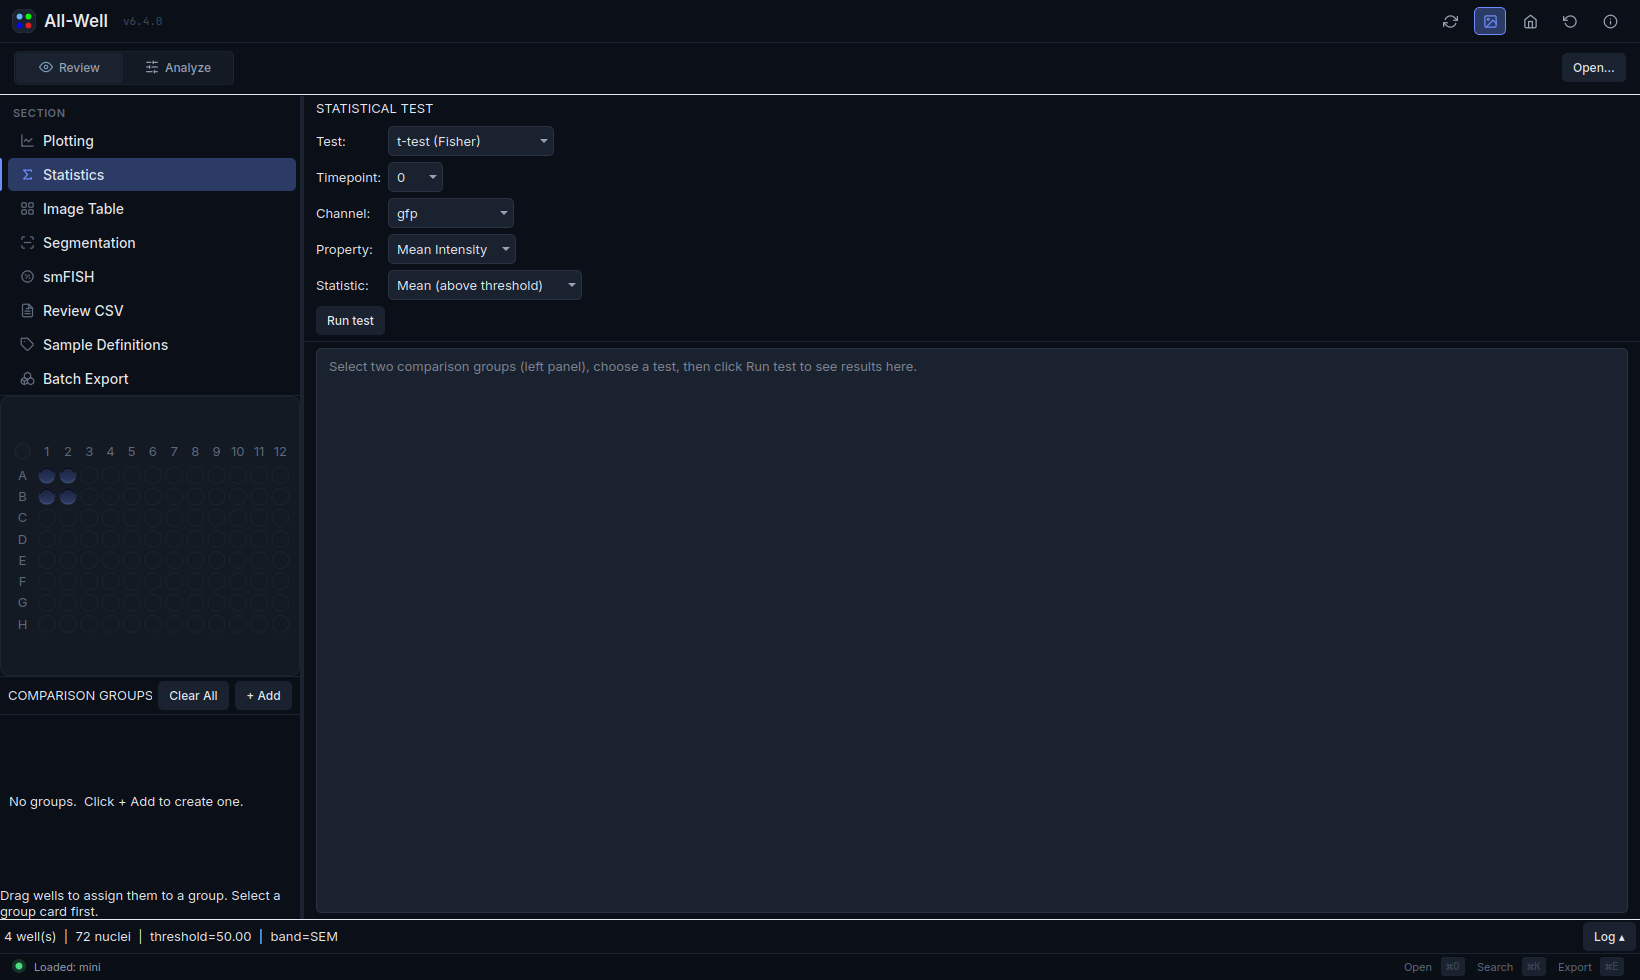
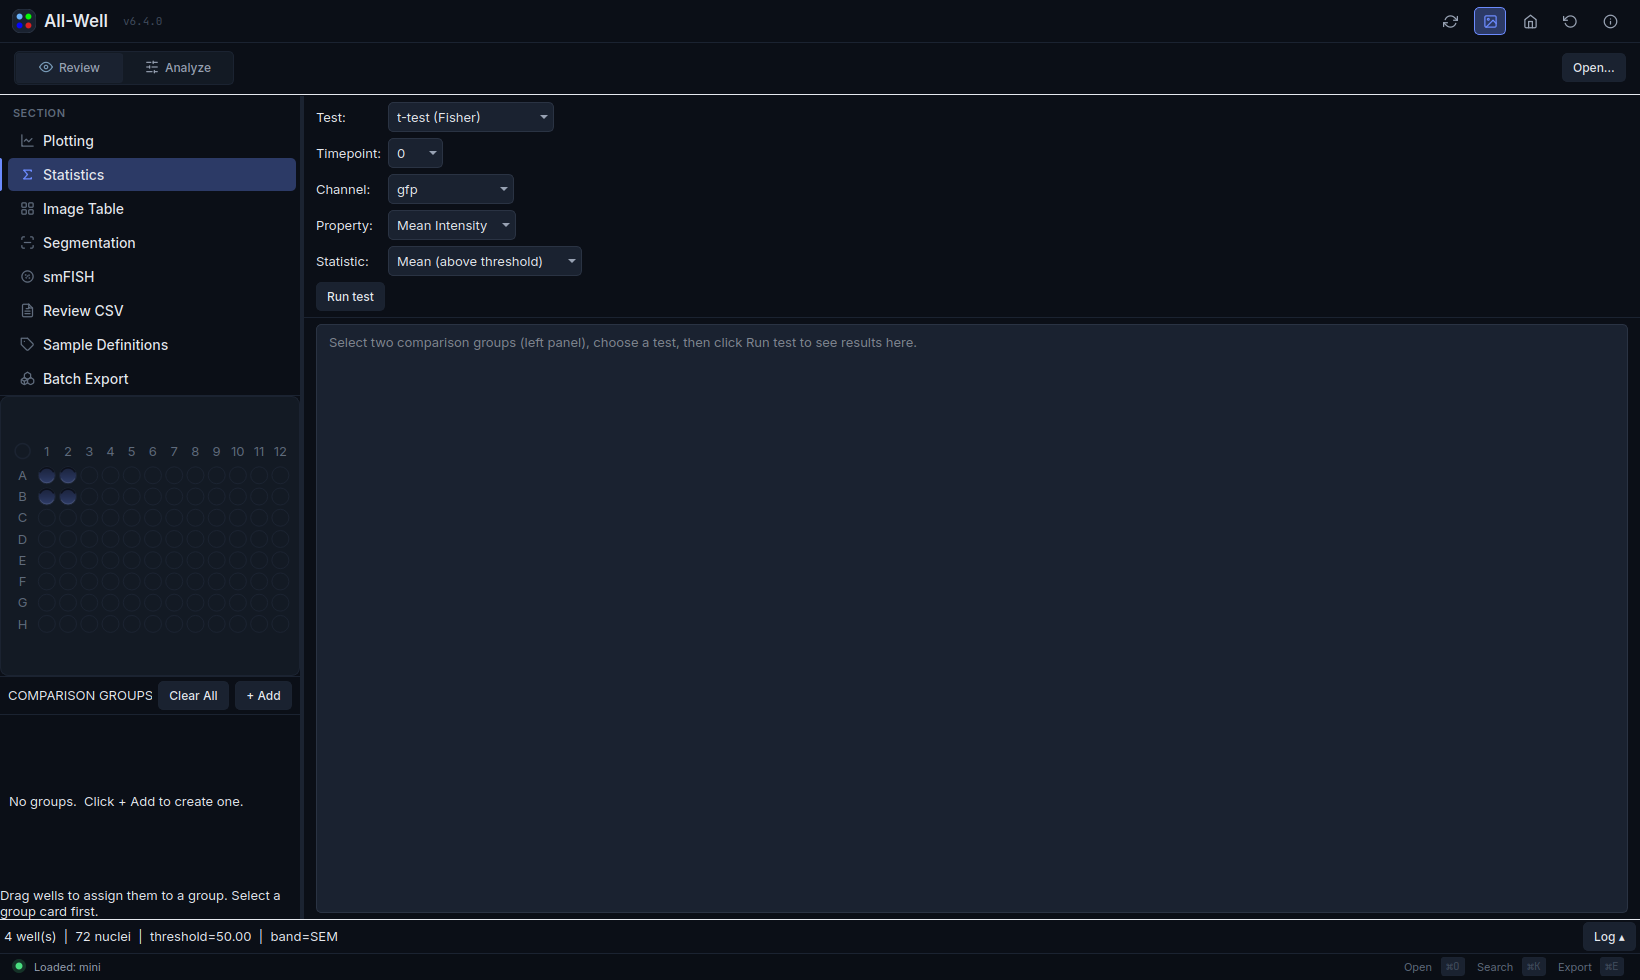
Tabs: consistent content padding + remove redundant titles
Padded-form tabs used a grab-bag of outer margins (Batch Export 12, Review CSV
10, Cell Gating 8, Ratios 8/6, Pipeline Info 8, Notes 6); normalised them all to
a uniform 12px inset. Removed the top-of-content titles that just repeat the
tab/sub-tab name — 'STATISTICAL TEST' (Statistics), 'Batch Export' (kept the
description), 'GROUPS' (kept its action bar), 'RATIO METRICS' (kept the intro).

Changed region(s): [[0.1866, 0.0918, 0.9951, 0.398]]

diff --git a/well_viewer/features/grouping/replicate_panel_view.py b/well_viewer/features/grouping/replicate_panel_view.py
@@ -135,9 +135,6 @@ def build_replicate_groups_centre(app, parent: QWidget) -> None:
     hdr_l = QHBoxLayout(hdr)
     hdr_l.setContentsMargins(10, 8, 10, 4)
     layout.addWidget(hdr)
-    hdr_lbl = QLabel("GROUPS", hdr)
-    hdr_lbl.setProperty("role", "section")
-    hdr_l.addWidget(hdr_lbl)
     hdr_l.addStretch(1)
     hdr_l.addWidget(btn_secondary(hdr, "Clear All", app._rep_clear_all))
     hdr_l.addWidget(btn_primary(hdr, "+ Add", app._rep_add))
@@ -350,7 +347,7 @@ def build_sample_definitions_centre(app, parent: QWidget) -> None:
     # sample_definitions.json's "notes" field.
     notes_tab = _QWidget(sub_tabs)
     nl = _QVBoxLayout(notes_tab)
-    nl.setContentsMargins(6, 6, 6, 6)
+    nl.setContentsMargins(12, 12, 12, 12)
     # Commit on focus-out (not per keystroke): a freeform notes box shouldn't
     # rewrite pipeline_info.json on every letter typed.
     app._notes_edit = _NotesEdit(notes_tab, app._notes_schedule_save)

diff --git a/well_viewer/features/stats/view.py b/well_viewer/features/stats/view.py
@@ -130,16 +130,6 @@ def build_stats_results_panel(app, parent: QWidget) -> None:
     layout.setContentsMargins(0, 0, 0, 0)
     layout.setSpacing(0)
 
-    app._stats_hdr = QWidget(parent)
-    app._stats_hdr.setObjectName("Sidebar")
-    hl = QHBoxLayout(app._stats_hdr)
-    hl.setContentsMargins(12, 4, 12, 4)
-    app._stats_hdr_label = QLabel("STATISTICAL TEST", app._stats_hdr)
-    app._stats_hdr_label.setProperty("role", "section")
-    hl.addWidget(app._stats_hdr_label)
-    hl.addStretch(1)
-    layout.addWidget(app._stats_hdr)
-
     app._stats_ctrl = QWidget(parent)
     app._stats_ctrl.setObjectName("TabCtrl")  # data-gated until a dataset loads
     cl = QGridLayout(app._stats_ctrl)

diff --git a/well_viewer/features/scatter/ratio_panel_view.py b/well_viewer/features/scatter/ratio_panel_view.py
@@ -43,12 +43,8 @@ class RatioMetricsPanel(QWidget):
         self._app = app
 
         layout = QVBoxLayout(self)
-        layout.setContentsMargins(8, 6, 8, 6)
+        layout.setContentsMargins(12, 12, 12, 12)
         layout.setSpacing(6)
-
-        title = QLabel("RATIO METRICS", self)
-        title.setProperty("role", "section")
-        layout.addWidget(title)
 
         intro = QLabel(
             "Define ratio metrics computed at read time as "

diff --git a/well_viewer/features/batch_export/tab_view.py b/well_viewer/features/batch_export/tab_view.py
@@ -147,10 +147,6 @@ def build_batch_export_tab(ctx, parent: QWidget) -> None:
         parent.setLayout(layout)
     layout.setContentsMargins(12, 12, 12, 12)
 
-    title = QLabel("Batch Export", parent)
-    title.setProperty("role", "section")
-    layout.addWidget(title)
-
     subtitle = QLabel(
         "Configure and run inline line / bar / scatter batch-export workflows "
         "from this tab.",

diff --git a/well_viewer/features/grouping/cell_gating_tab_view.py b/well_viewer/features/grouping/cell_gating_tab_view.py
@@ -185,7 +185,7 @@ def build_cell_gating_tab(ctx, parent: QWidget) -> None:
     if root is None:
         root = QVBoxLayout(parent)
         parent.setLayout(root)
-    root.setContentsMargins(8, 8, 8, 8)
+    root.setContentsMargins(12, 12, 12, 12)
 
     control_frame = QWidget(parent)
     control_frame.setObjectName("TabCtrl")

diff --git a/well_viewer/features/review_image/csv_tab_view.py b/well_viewer/features/review_image/csv_tab_view.py
@@ -14,7 +14,7 @@ def build_review_csv_tab(ctx, parent: QWidget) -> None:
     if layout is None:
         layout = QVBoxLayout(parent)
         parent.setLayout(layout)
-    layout.setContentsMargins(10, 10, 10, 10)
+    layout.setContentsMargins(12, 12, 12, 12)
 
     ctrl = QWidget(parent)
     ctrl.setObjectName("TabCtrl")

diff --git a/well_viewer/features/grouping/pipeline_info_view.py b/well_viewer/features/grouping/pipeline_info_view.py
@@ -53,7 +53,7 @@ def _fmt(value) -> str:
 
 def build_pipeline_info_subtab(app, parent: QWidget) -> None:
     layout = parent.layout() or QVBoxLayout(parent)
-    layout.setContentsMargins(8, 8, 8, 8)
+    layout.setContentsMargins(12, 12, 12, 12)
     layout.setSpacing(6)
 
     hdr = QHBoxLayout(); hdr.setSpacing(8)
